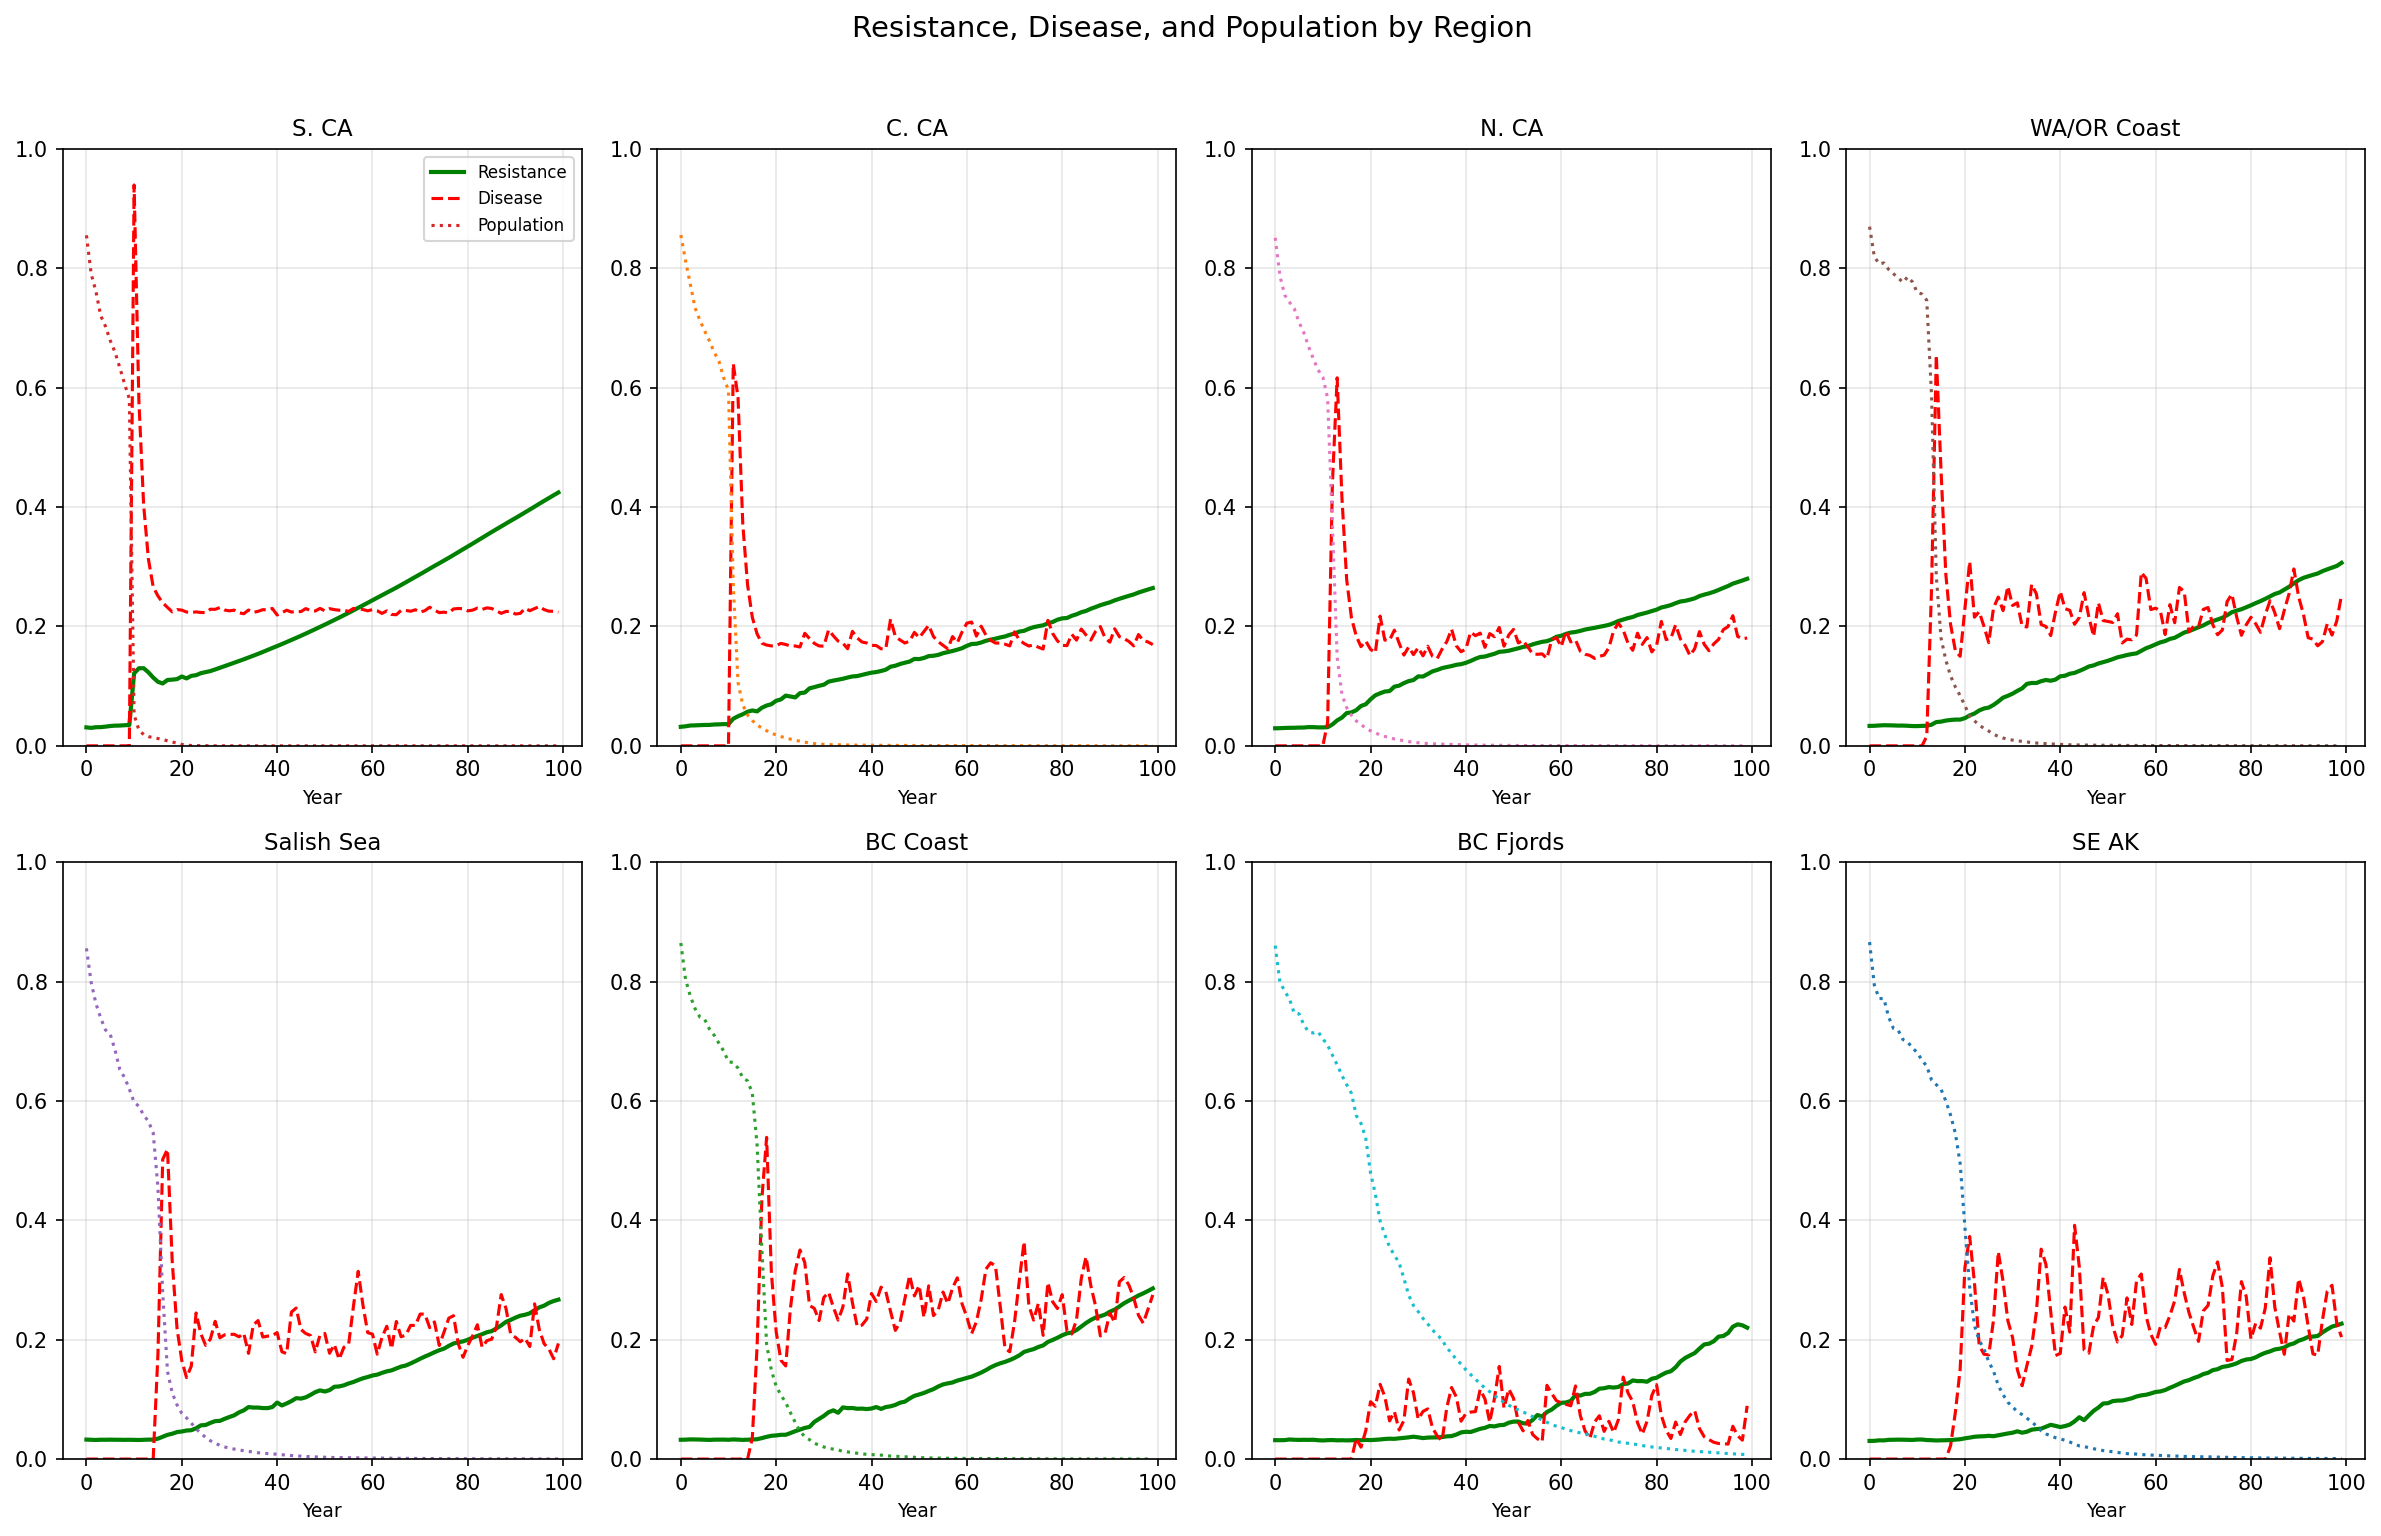
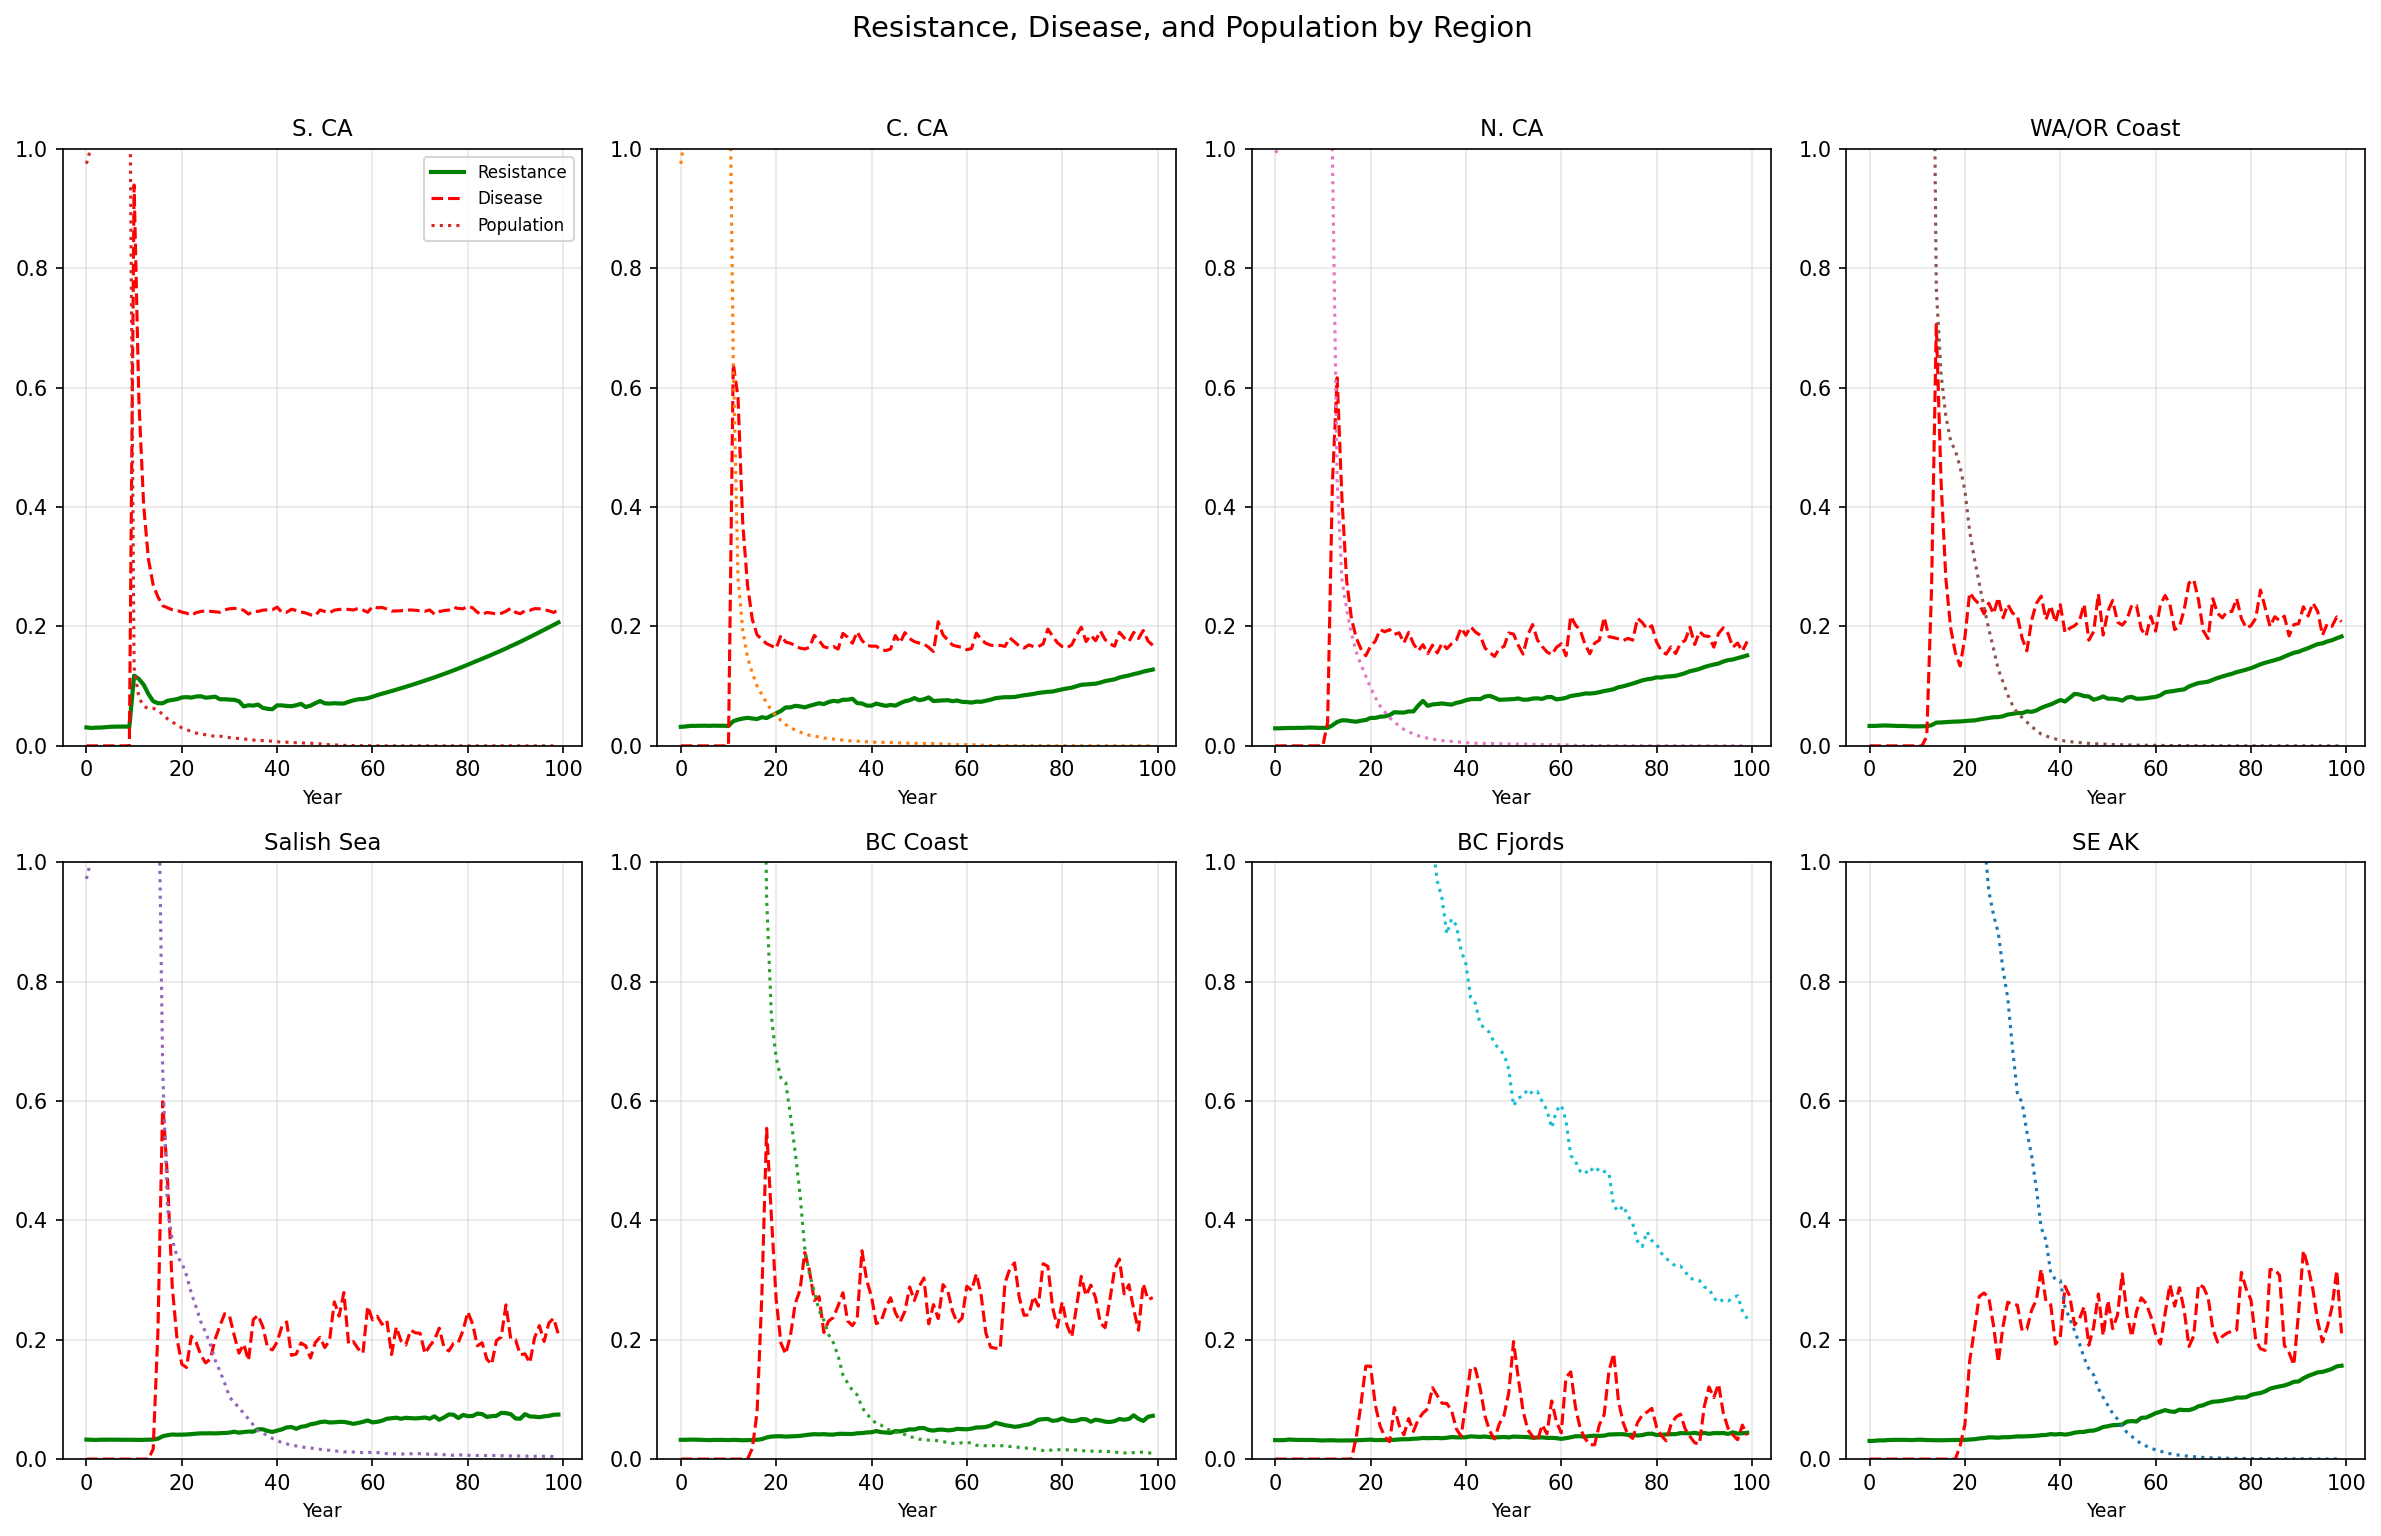
calibrate: fix reproduction balance, fjord self-recruitment 92%
Key fixes:
- Recruitment ratio 0.10→0.35 (population couldn't sustain itself)
- Fjord self-recruitment 0.75→0.92 (source-sink trap)
- Cold water reduces endemic prevalence
- Temperature spread modifier widened (0.2x-1.8x)

Results:
- BC Fjords: 23.5% survival (was 0.8%)
- Overall: 98.2% decline (in target 80-98%)
- SE Alaska still needs work (0% vs 30-60%)

diff --git a/pycnopodia/pacific_coast.py b/pycnopodia/pacific_coast.py
@@ -234,7 +234,7 @@ class PacificCoastConfig:
     survival_juvenile: float = 0.60
     maturation_years: int = 3
     carrying_capacity_multiplier: float = 5.0  # K relative to initial pop
-    recruitment_ratio: float = 0.10
+    recruitment_ratio: float = 0.35  # Must offset 5% adult mortality + juvenile loss
     breeding_success_ratio: float = 0.08
     allee_threshold: int = 50
     allee_half_sat: int = 100
@@ -407,9 +407,14 @@ def build_larval_connectivity_matrix(
             # Distance in site indices (proxy for geographic distance)
             dist = abs(j - i)
             
-            # Same site - some self-recruitment
+            # Same site - self-recruitment (much higher in fjords)
             if i == j:
-                C[i, j] = self_retention * 0.3
+                if source_region.region_type == RegionType.FJORD:
+                    C[i, j] = 0.92  # Fjords trap larvae — semi-enclosed, high retention
+                elif source_region.region_type == RegionType.INLAND_SEA:
+                    C[i, j] = 0.50  # Inland seas retain more than open coast
+                else:
+                    C[i, j] = 0.15  # Open coast - most larvae disperse
                 continue
             
             # Same region - high connectivity
